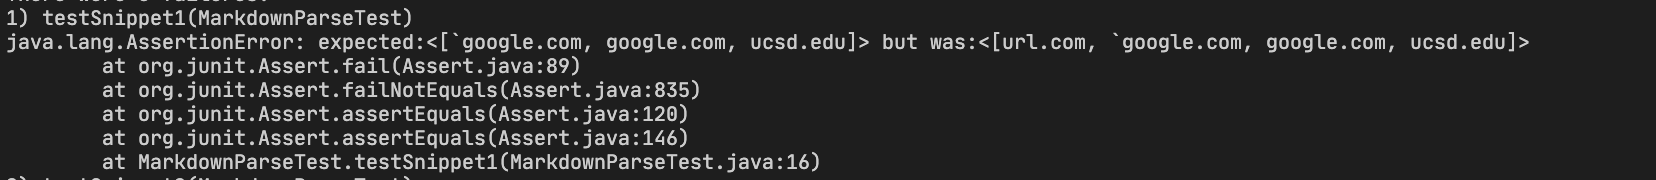
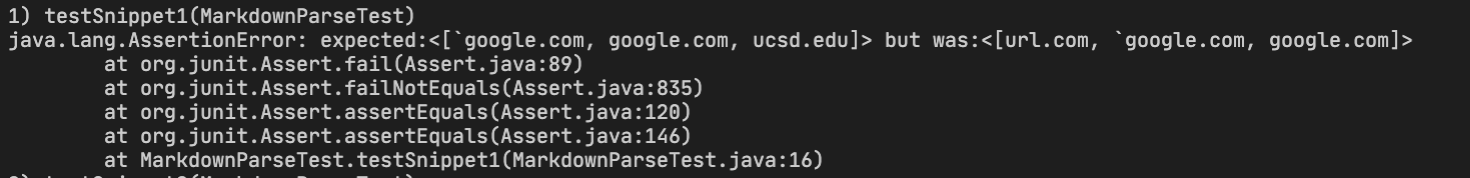
update

diff --git a/lab-report-4-week-8.md b/lab-report-4-week-8.md
@@ -34,10 +34,77 @@
    ![Image](test1.jpg)
 
 3. Running the Junit using our, I get the following output when testing MarkdownParse on snippet 1:
+
+   > Joe's MarkdownParse
+
+   ![Image](joe1.jpg)
+
+   - This implementaiton fails on snippet 1. We can see this in the java.lang.AssertionError, meaning the returned value was different than the expected. It retuned url.com when it shouldn't have.
+
    > My MarkdownParse
 
-![Image](test1.jpg)
+   ![Image](result1.jpg)
 
-- This implementaiton fails on snippet 1. We can see this in the java.lang.AssertionError, meaning the returned value was different than the expected. It retuned url.com when it shouldn't have.
+   - This implementaiton fails on snippet 1. We can see this in the java.lang.AssertionError, meaning the returned value was different than the expected. The program returned `url.com` which it shouldn't have and failed to return `ucsd.edu`.
 
-- There is not a small code change that will allow the program to handle this edge case. Conceptually, you would need to have the program ignore all instances of inline code using barticks (ie take them out of the text considered when the program is running). However, since there are also edge cases in creating inline code (ex in snippet 1 si where the parentheses cuts it off in the second link) you would need to write a large amount of code to figure out what to exclude.
+   - There is a big code change that will allow the program to handle this edge case. We need the program ignore all instances of inline code using barticks (i.e. take them out of the text considered when the program is running). However, since there are also cases in creating inline code (for example in snippet 1 `` [`cod[e`](google.com) ``, after removing the barticks, we still get a linke name`[e]`) we would need to write a large amount of code to figure out what to exclude.
+
+---
+
+## Markdown Snippet 2
+
+> Here we go over testing how programs handle snippet 2 shown below
+
+![Image](Snippet2.jpg)
+
+1. Using the preview slide of visual studio code, we can determine that our MarkdownParse programs should return a list of ["a.com", "a.com((", "example.com"]
+
+2. We can now write a JUnit test to compare the values returned by Markdownparse to our expeced values:
+   ![Image](test2.jpg)
+
+3. Running the Junit using our, I get the following output when testing MarkdownParse on snippet 1:
+
+   > Joe's MarkdownParse
+
+   ![Image](joe2.jpg)
+
+   - This implementaiton passes on snippet 2.
+
+   > My MarkdownParse
+
+   ![Image](result2.jpg)
+
+   - This implementaiton fails on snippet 2. We can see this in the java.lang.AssertionError, meaning the returned value was different than the expected. It retuned `a.com((` instead of `a.com` and fail to return `example.com`
+
+   - There is a relatively small code addition that could be added to handle this case. We only have to add code for finding new square brackets and parentheses to check for nesting.
+
+   - A nested link has a characteristic of two open breackets or two open parentheses. We only have to check if there are same amount of brackets or parentheses there. If the number are same, meaning the link is nested. (for example in 2nd case a.com(()), there are two open parenthese, but at the same time, it has two close parenthese, hence we are sure that it is nested)
+
+---
+
+## Markdown Snippet 3
+
+> Here we go over testing how programs handle snippet 3 shown below
+
+![Image](Snippet3.jpg)
+
+1. Using the preview slide of visual studio code, we can determine that our MarkdownParse programs should return a list of ["https://www.twitter.com", "https://ucsd-cse15l-w22.github.io/", "https://cse.ucsd.edu/"]
+
+2. We can now write a JUnit test to compare the values returned by Markdownparse to our expeced values:
+   ![Image](test3.jpg)
+
+3. Running the Junit using our, I get the following output when testing MarkdownParse on snippet 1:
+
+   > Joe's MarkdownParse
+
+   ![Image](joe3.jpg)
+
+   - This implementaiton fails on snippet 3. We can see this in the java.lang.StringIndexOutOfBoundsException, meaning the code is not working
+
+   > My MarkdownParse
+
+   ![Image](result3.jpg)
+
+   - This implementaiton fails on snippet 2. We can see this in the java.lang.AssertionError, meaning the returned value was different than the expected. It fail to return `"https://ucsd-cse15l-w22.github.io/" and "https://cse.ucsd.edu/"`. Also we notice that there is a lot of space of the returned link
+
+   - There is a small code change that would allow the program to handle newlines nested in brackets and parentheses. Since newlines do not affect whether a link exists in md files, we want our code to ignore them. We can accomplish this by using the string function removeAll() to get rid of the newlines before running our program on the text.
